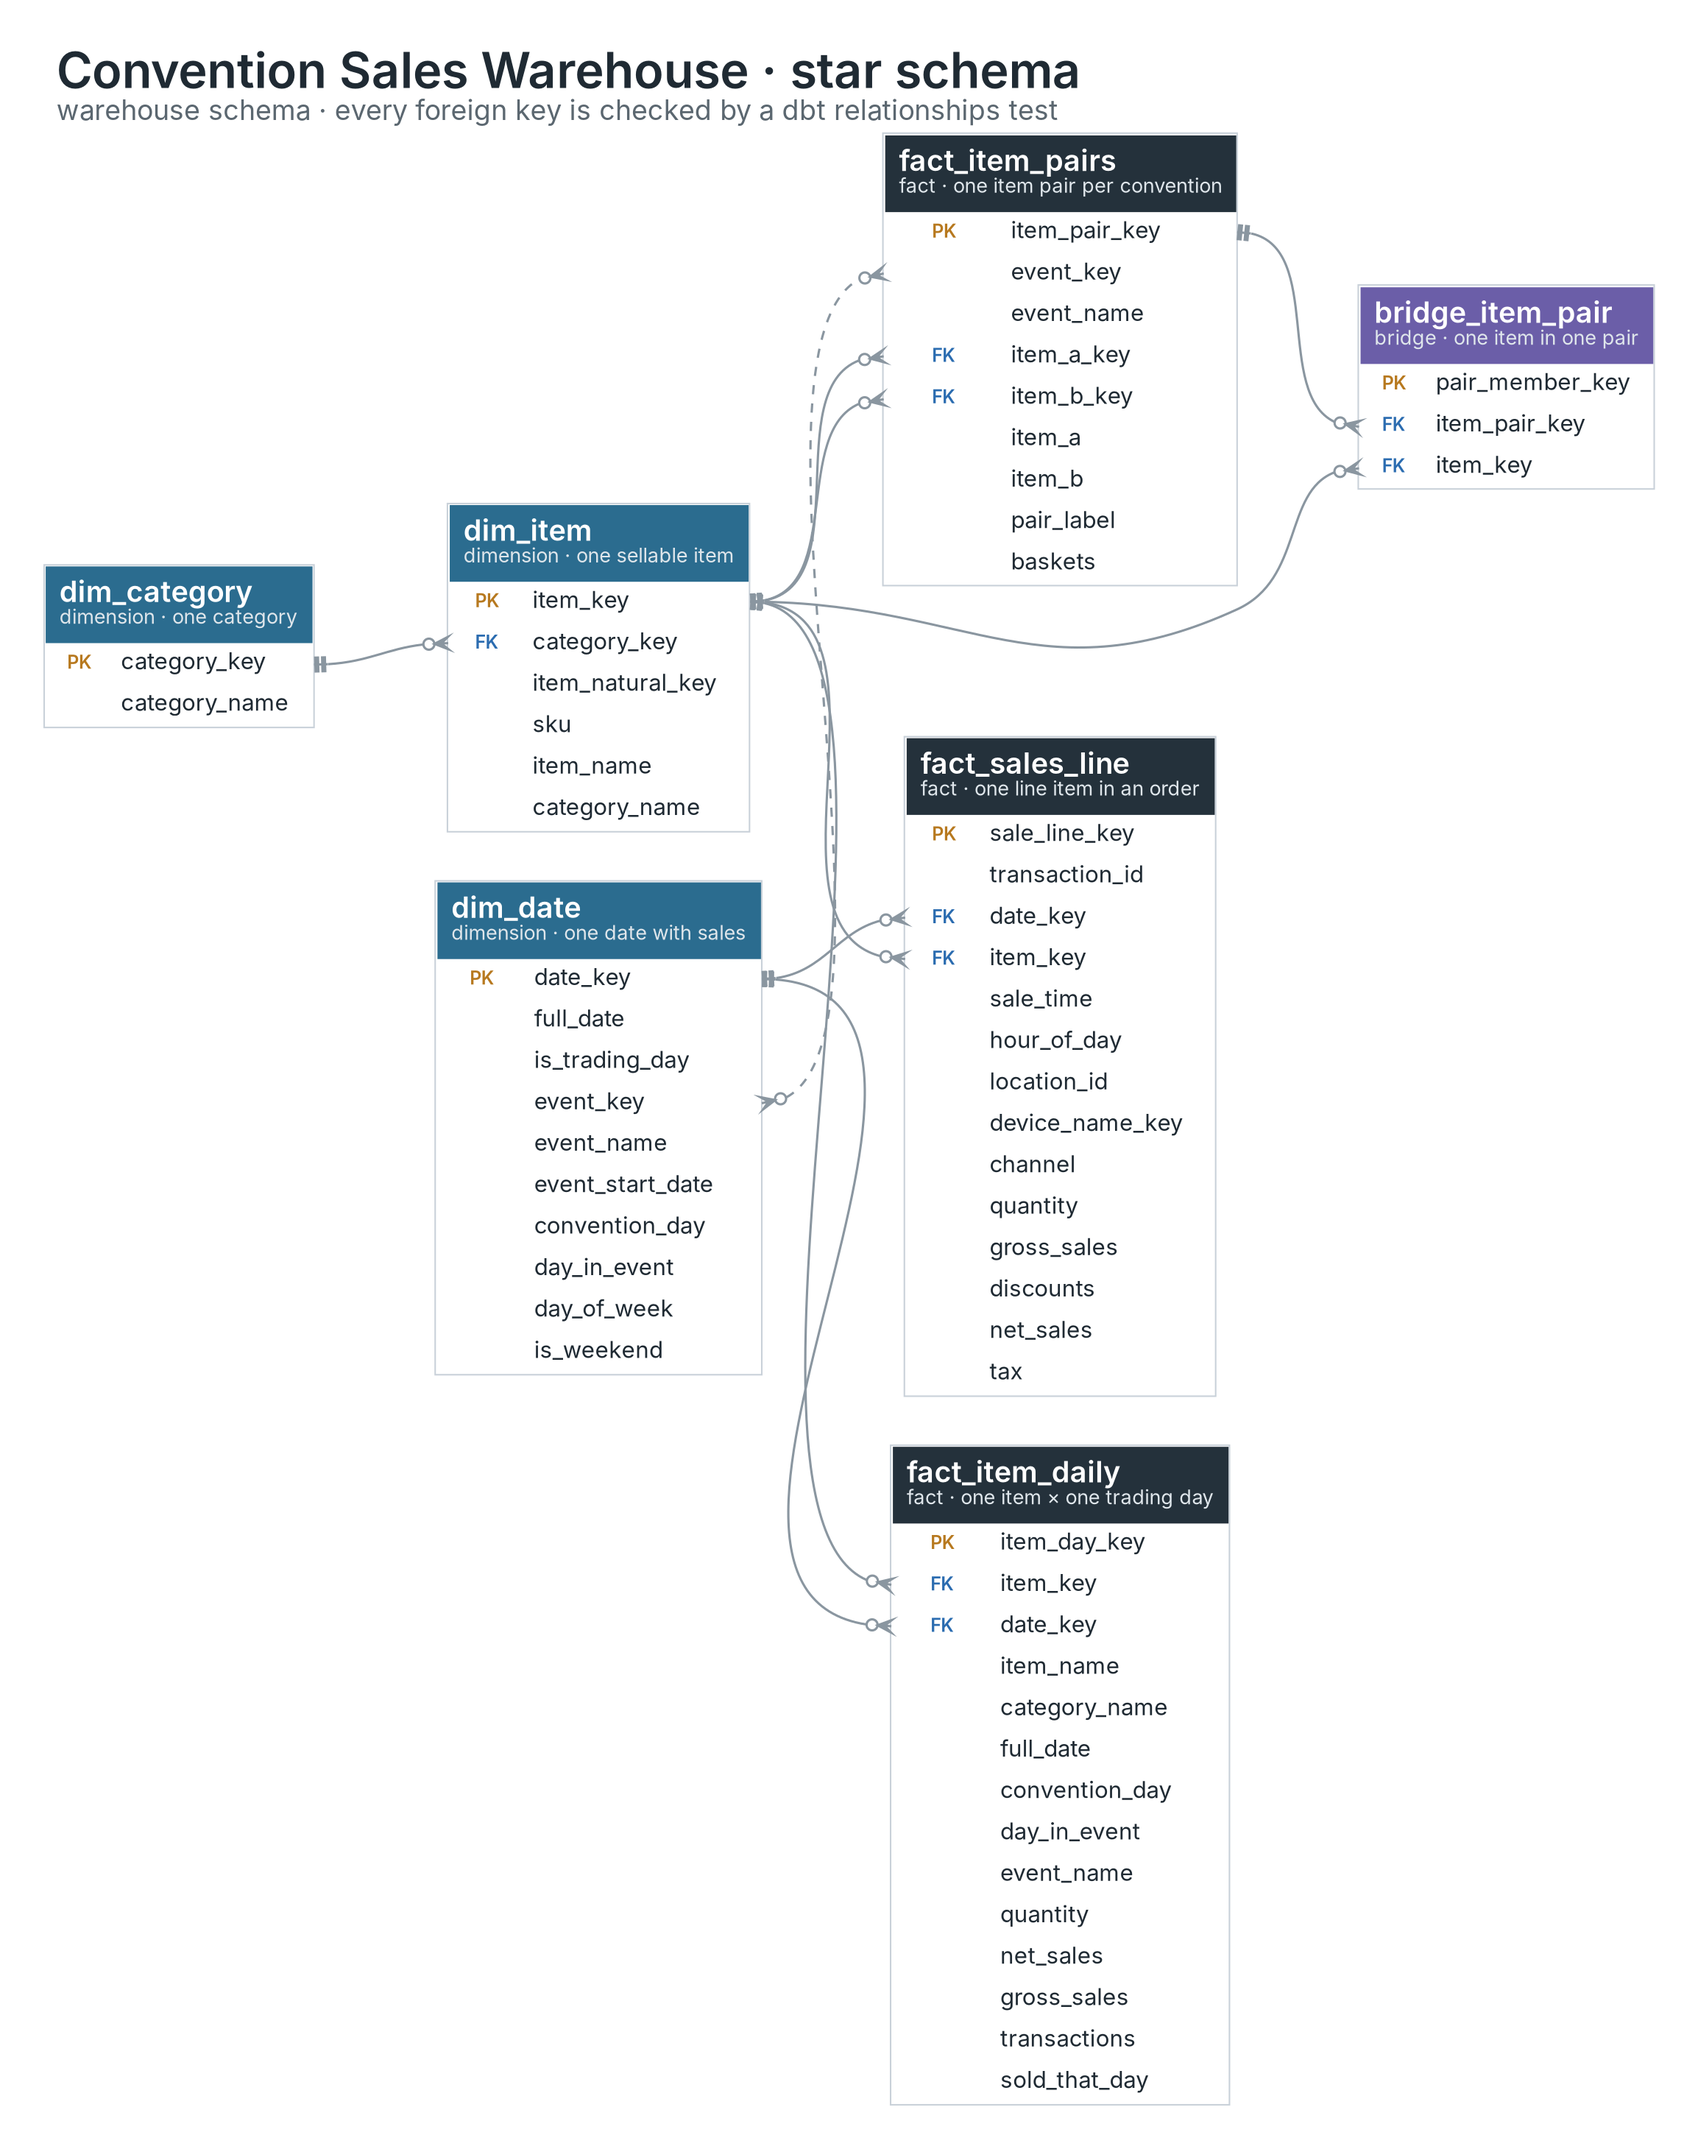
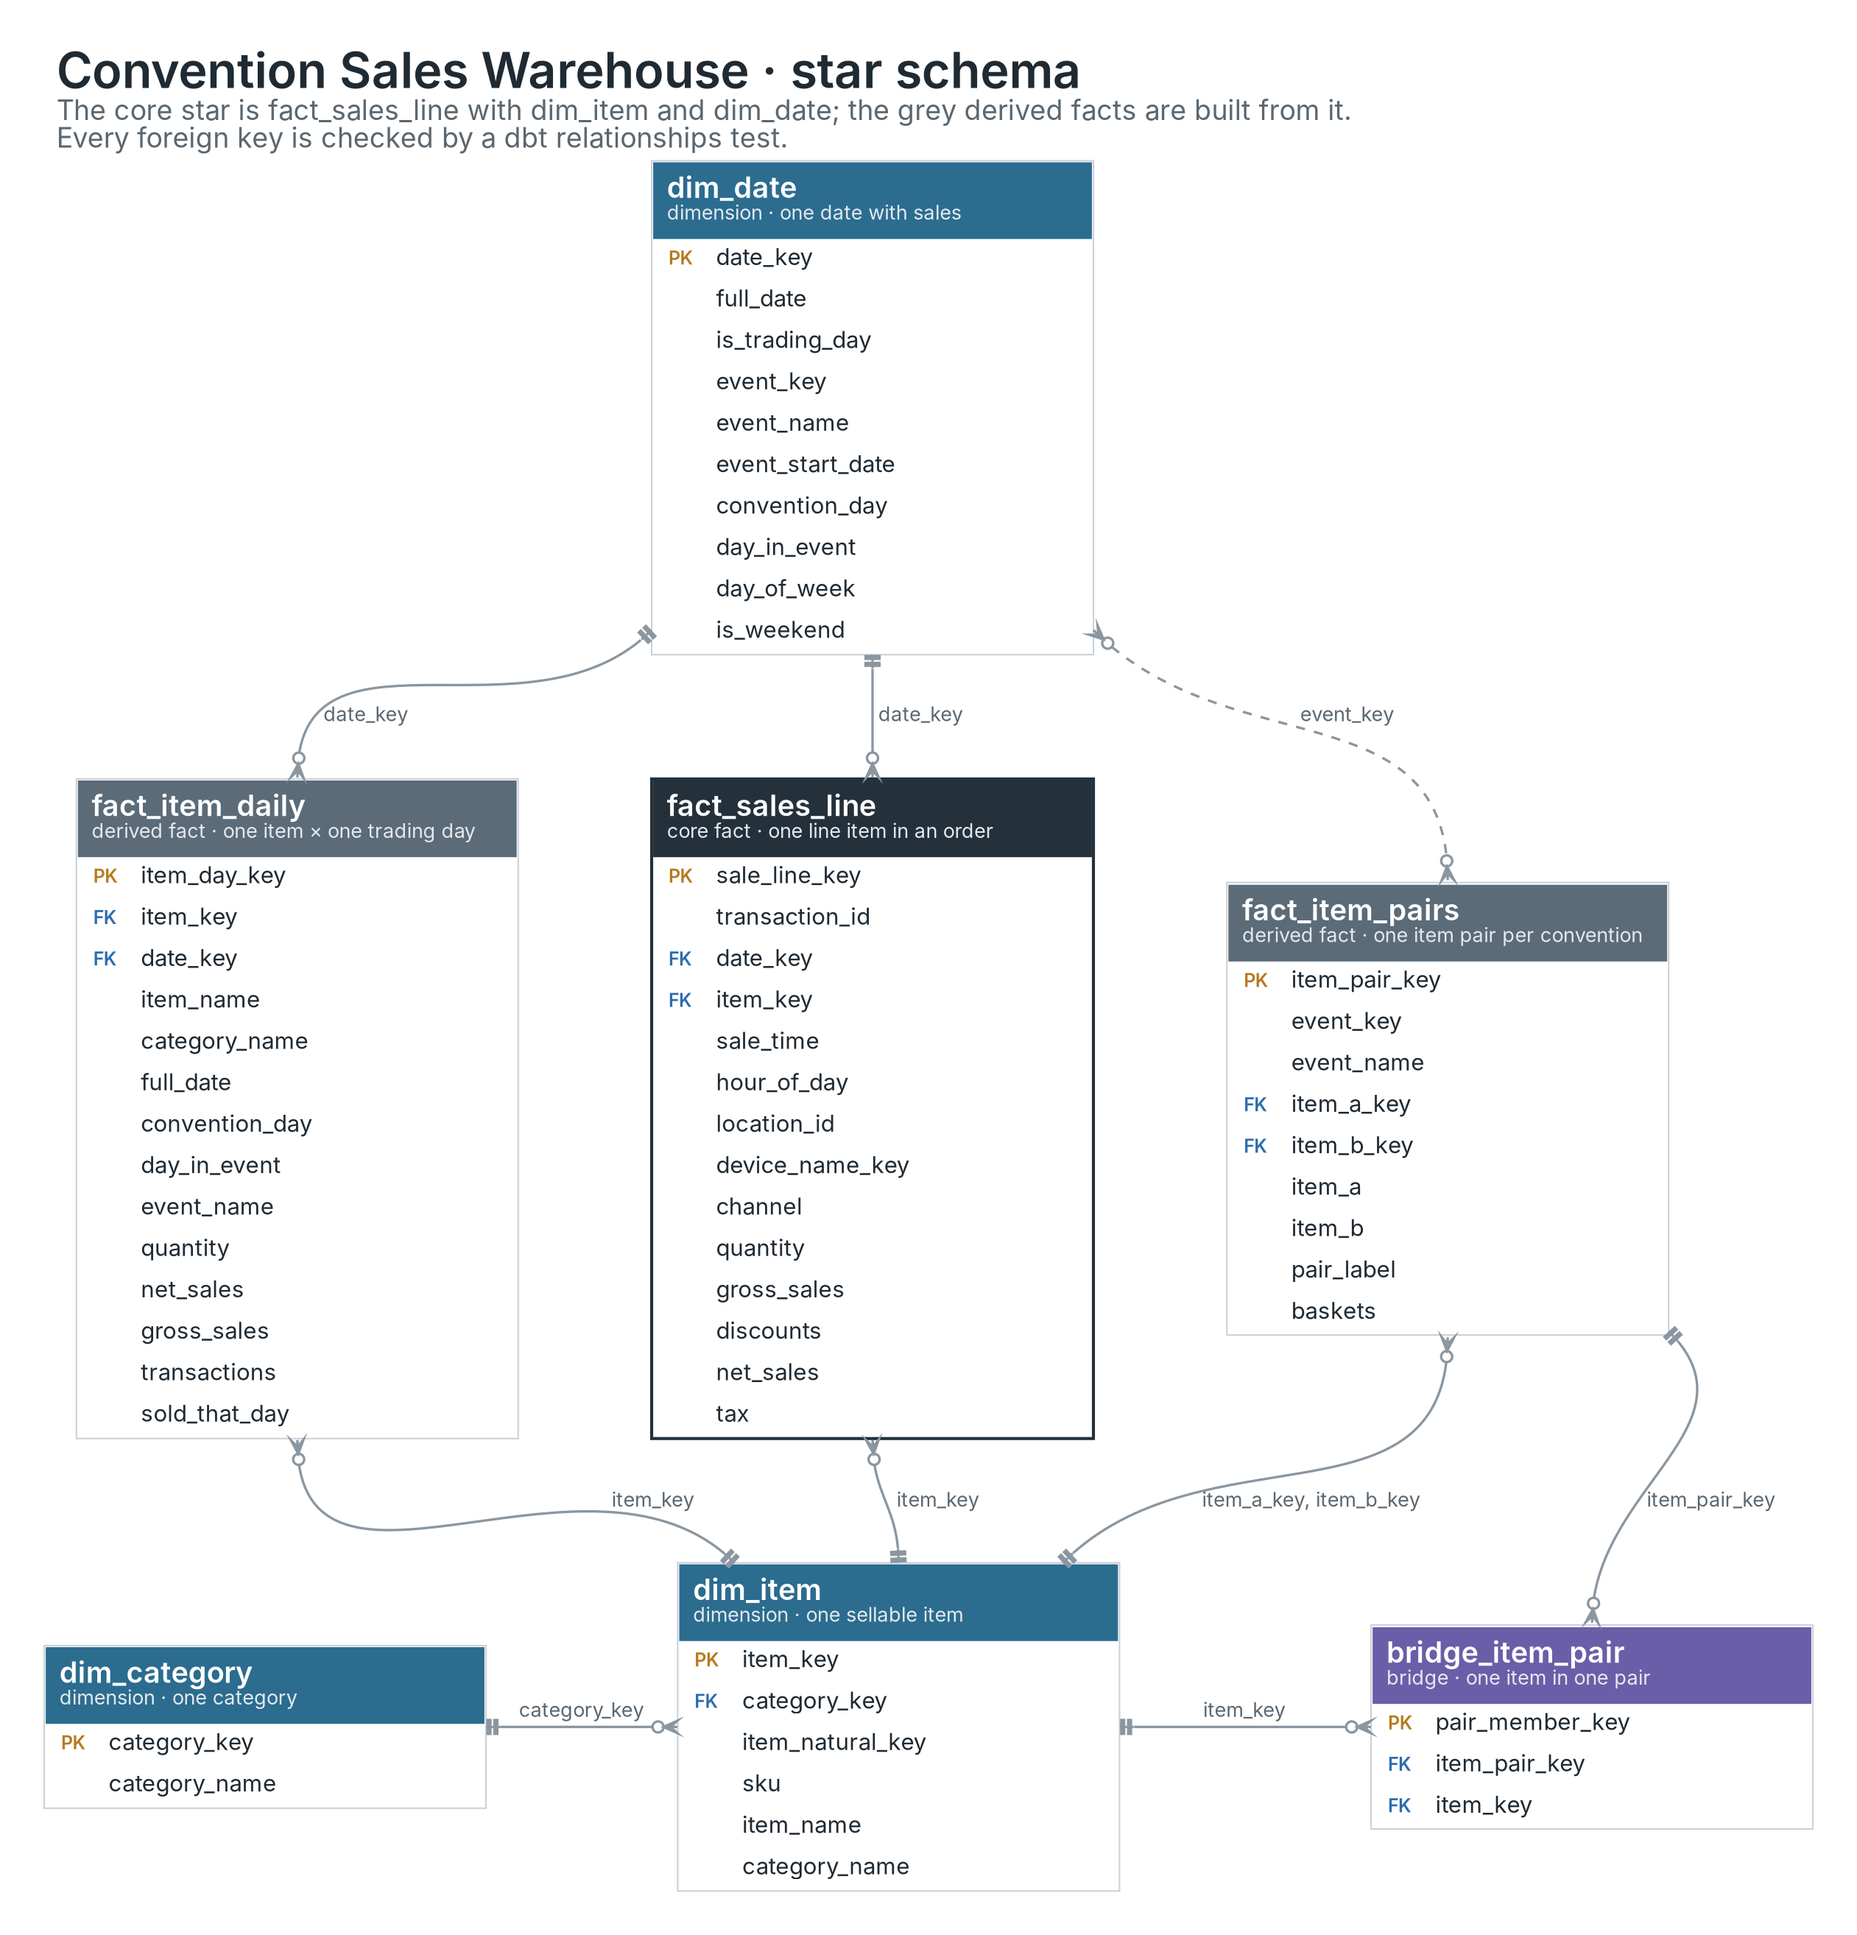
Redraw the star schema around its core fact table
fact_sales_line sits at the center with its two dimensions; the derived facts and the bridge sit around it, and the README says which is which.

diff --git a/README.md b/README.md
@@ -91,7 +91,11 @@ from here on.
 
 ## Data model
 
-![Star schema: three dimensions, three fact tables, and a bridge table, with primary and foreign keys](assets/star-schema.png)
+The core is a star: `fact_sales_line` joined to `dim_item` and `dim_date`. The
+item-by-day fact, the basket pairs, and the bridge are built from that star for
+the dashboards.
+
+![Star schema: fact_sales_line at the center with dim_date above and dim_item below; the derived facts fact_item_daily and fact_item_pairs sit beside it, bridge_item_pair resolves pairs to items, and dim_category hangs off dim_item](assets/star-schema.png)
 
 | Table | Grain |
 |---|---|
